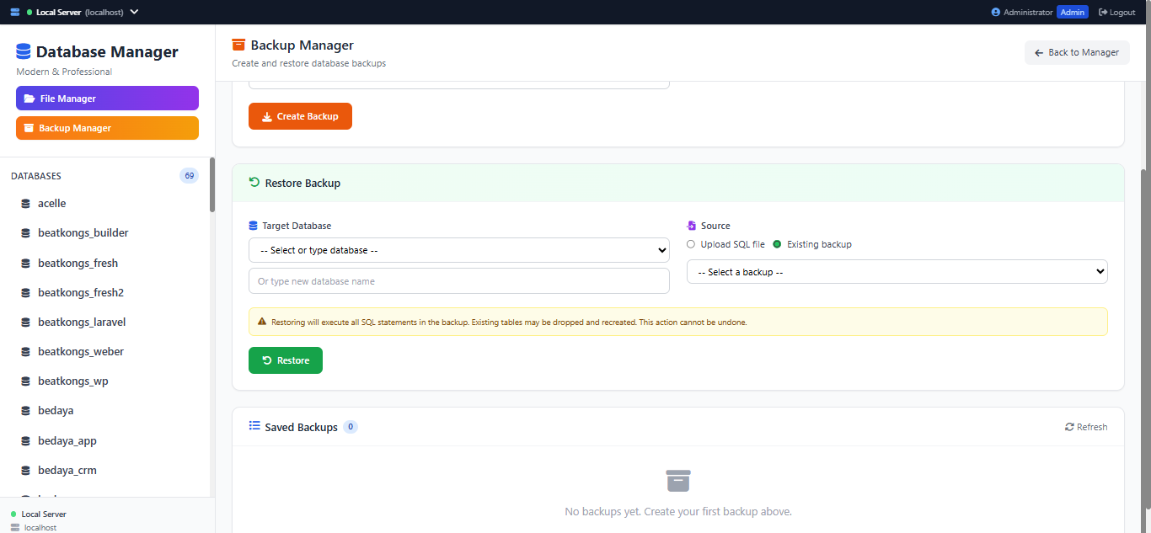
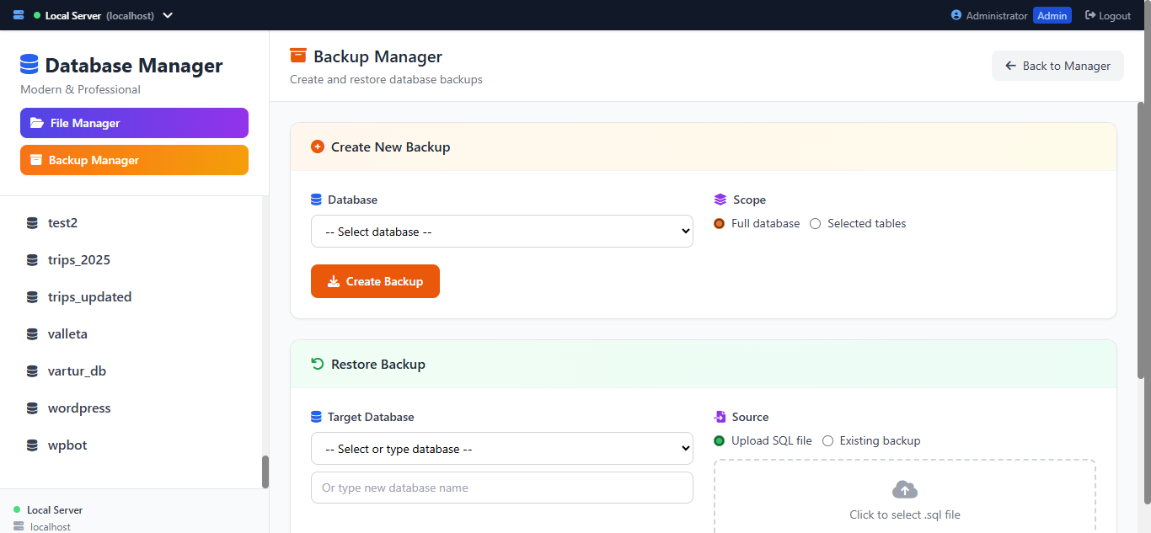
Launch DB Manager

diff --git a/README.md b/README.md
@@ -97,17 +97,18 @@ http://localhost/database-servers-manager/
 <table>
   <tr>
     <td align="center"><strong>🔐 Login</strong><br><em>Glassmorphism dark theme</em></td>
-    <td align="center"><strong>📊 Table Browser</strong><br><em>Inline editing & pagination</em></td>
+    <td align="center"><strong>📊 Table Export</strong><br><em>Schema & data export</em></td>
   </tr>
   <tr>
     <td align="center"><strong>🎨 Visual Designer</strong><br><em>Drag & drop ERD canvas</em></td>
-    <td align="center"><strong>💾 Backup Manager</strong><br><em>Create, restore, download</em></td>
+    <td align="center"><strong>💾 Backups</strong><br><em>Create, restore, download</em></td>
   </tr>
 </table>
 
 <img src="screenshots/erd.png" width="100%"> 
 <img src="screenshots/export.png" width="100%"> 
 <img src="screenshots/file-manager.png" width="100%"> 
+<img src="screenshots/backup.png" width="100%"> 
 
 ---
 
